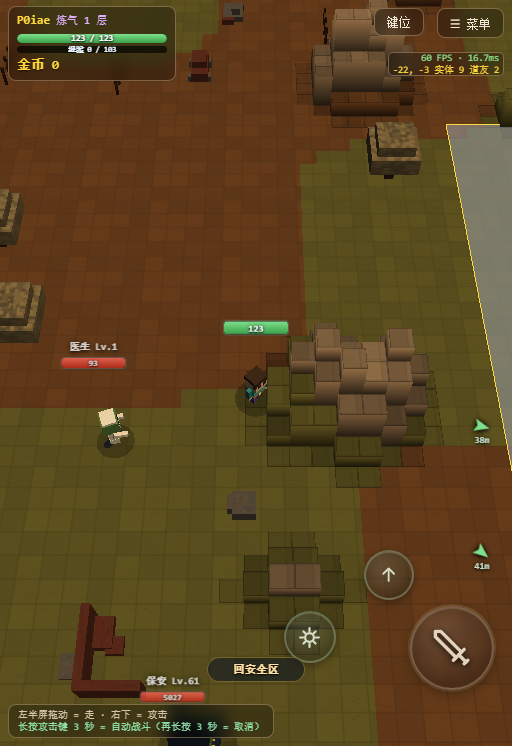
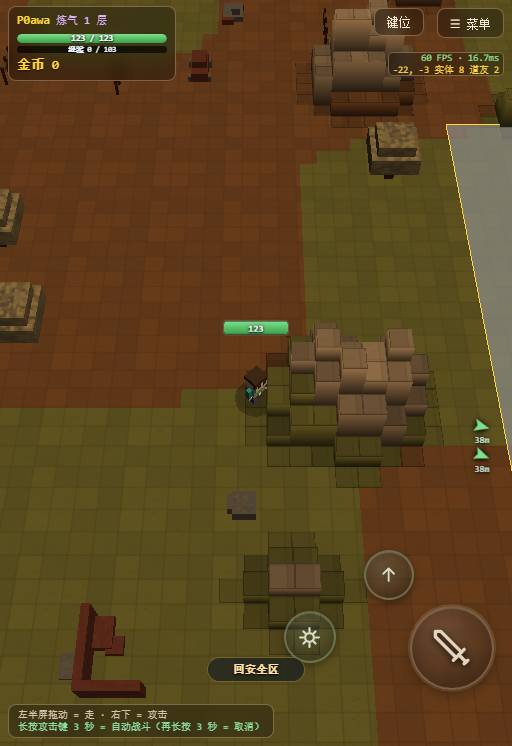
one dagger attack, two beats
The throw and the stab were separate attacks, alternating with each press. They are now one
attack with two parts: every press throws with the left hand and then stabs with the right,
the same way the one-handed sword gets two thrusts out of a single swing.

On the server the throw no longer returns early, so the melee resolution behind it runs as
well - one press genuinely produces a projectile and a close-range hit. On the client the
dagger gets its own set of keyframes where the left arm winds and throws early, then the
right arm lifts and stabs late, over eight tenths of a second.

The pose trace shows the two beats clearly: the left arm reaches its throw at a fifth of a
second and the right arm reaches its stab just after half.

diff --git a/web/core/game.js b/web/core/game.js
@@ -5006,8 +5006,20 @@ var KF_THROW = [
   [ 0.30,  0.00,  0.15,  0.55,  0.00,  0.00, -0.15,  0.00,  0.00,  0.00,  0.00]   // 回位
 ];
 
+/* ★ round390（用户："两次攻击作为一次，分成两段"）
+   ★ 一次挥砍里做两件事：先左臂把刀甩出去 ✗ 再右臂近身刺 ✓
+   ★ 6 帧 / 5 段：起手 → 左臂后拉 → 甩出 → 右臂抬起 → 刺出 → 回位 */
+var KF_DAG = [
+  [ 0.00,  0.00,  0.15,  0.55,  0.00,  0.00, -0.15,  0.00,  0.00,  0.00,  0.00],
+  [ 0.25,  0.10,  0.14,  0.58, -0.04,  0.08,  0.72, -0.08,  0.08, -0.02,  0.00],
+  [-0.15, -0.06,  0.12,  0.45,  0.10, -0.07, -1.68, -0.14,  0.14,  0.10,  0.02],
+  [ 1.10,  0.06,  0.12,  1.20, -0.06,  0.05, -0.55, -0.10,  0.10, -0.02,  0.00],
+  [-1.45,  0.04,  0.05,  1.60,  0.12,  0.06, -0.25, -0.16,  0.16,  0.24,  0.00],
+  [ 0.00,  0.00,  0.15,  0.55,  0.00,  0.00, -0.15,  0.00,  0.00,  0.00,  0.00]
+];
+
 var ATK_KF = { chop: KF_CHOP, sweep: KF_SWEEP, thrust: KF_THRUST, draw: KF_DRAW,
-               stab2: KF_STAB2, throw: KF_THROW };
+               stab2: KF_STAB2, throw: KF_THROW, dag: KF_DAG };
 // 各自的节奏：劈最慢（收招重 ✓）· 扫居中 · 刺最快（秒收 ✓）
 var ATK_T = {
   chop:   [0.26, 0.43, 0.52, 0.86],
@@ -5017,7 +5029,8 @@ var ATK_T = {
   /* ★ 6 帧 / 5 段：0.09 蓄力 · 0.18 刺1 · 0.27 收 · 0.36 刺2 · 0.62 回位
      ★ 两下的"出手时刻"间隔 ≈ 0.18 秒 ✗ 手速感明确 ✓ 但又分得清是两下 ✓ */
   stab2:  [0.09, 0.18, 0.27, 0.36, 0.62],
-  throw:  [0.16, 0.30, 0.40, 0.62]     /* 甩出去快 ✗ 收势稍慢 */
+  throw:  [0.16, 0.30, 0.40, 0.62],    /* 甩出去快 ✗ 收势稍慢 */
+  dag:    [0.10, 0.22, 0.34, 0.48, 0.80]
 };
 
 function atkArchOf(look) { return ATK_ARCH[look] || 'sweep'; }
@@ -5040,8 +5053,8 @@ function heroAtkPose(heroObj, atkT, bx, bz, byaw, look, baseY, side) {
   var KF;
   if (look === 'axe' && _sideN === 1) {
     KF = KF_CHOP_R;
-  } else if (look === 'dagger' && _sideN === 1) {
-    KF = ATK_KF.throw; _ttKey = 'throw';
+  } else if (look === 'dagger') {
+    KF = ATK_KF.dag; _ttKey = 'dag';   /* ★ 每次都是"扔+刺"两段 ✓ */
   } else {
     KF = ATK_KF[arch];
   }

diff --git a/tools/smoke_p0.js b/tools/smoke_p0.js
@@ -251,6 +251,19 @@ const PW = 'abc123456';
   ].join(''));
   console.log('  左手槽: ' + ohTest);
 
+  // ★ 匕首：一次攻击 = 扔 + 刺（同一套动作里两段）
+  const dag2 = await ev([
+    'var h = hero();',
+    'var rows = [];',
+    'for (var t = 0; t <= 0.80; t += 0.10) {',
+    '  heroAtkPose(h, t, 0, 0, 0, "dagger", 0, 0);',
+    '  rows.push([+t.toFixed(2), +h.armL.rotation.x.toFixed(2), +h.armR.rotation.x.toFixed(2)]);',
+    '}',
+    'var ok = rows.every(function(r){ return isFinite(r[1]) && isFinite(r[2]); });',
+    'return JSON.stringify({ ok: ok, frames: rows });',
+  ].join(''));
+  console.log('  匕首两段: ' + dag2);
+
   const ripple = await ev([
     'var live = 0;',
     'for (var i = 0; i < _ripple.length; i++) { if (_ripple[i].on) { live++; } }',

diff --git a/server/world.py b/server/world.py
@@ -4174,7 +4174,7 @@ class World(object):
         #   ★ 奇数刀 = 投掷（远程 ✓ 复用箭矢系统）
         #     偶数刀 = 近身刺（走下面的正常近战 ✓）
         #   ★ 投掷伤害按品阶：1 阶 20% → 12 阶 80%（每阶 +6%）
-        if wlook == 'dagger' and (p.atkSeq % 2) == 1:
+        if wlook == 'dagger':
             if len(self.arrows) < ARROW_MAX:
                 self._arrow_id += 1
                 _atk2 = self._atk_of(p)
@@ -4200,7 +4200,9 @@ class World(object):
                     'life': 14.0 / ARROW_SPEED,
                     'by': p.cid,
                 }
-            return
+            # ★ round390（用户："两次攻击作为一次，分成两段，像单手剑一样"）
+            #   ★ 这里【不 return】✗ 继续往下走普通近战 ✓
+            #   → 一次按键 = 先扔出一把（远程）✗ 再近身刺一刀 ✓
         # ★★ 第 69 轮：弓 = 远程投射物（不走下面的近战扇形 ✗）★★
         if wlook in weapons.RANGED:
             if len(self.arrows) < ARROW_MAX:
